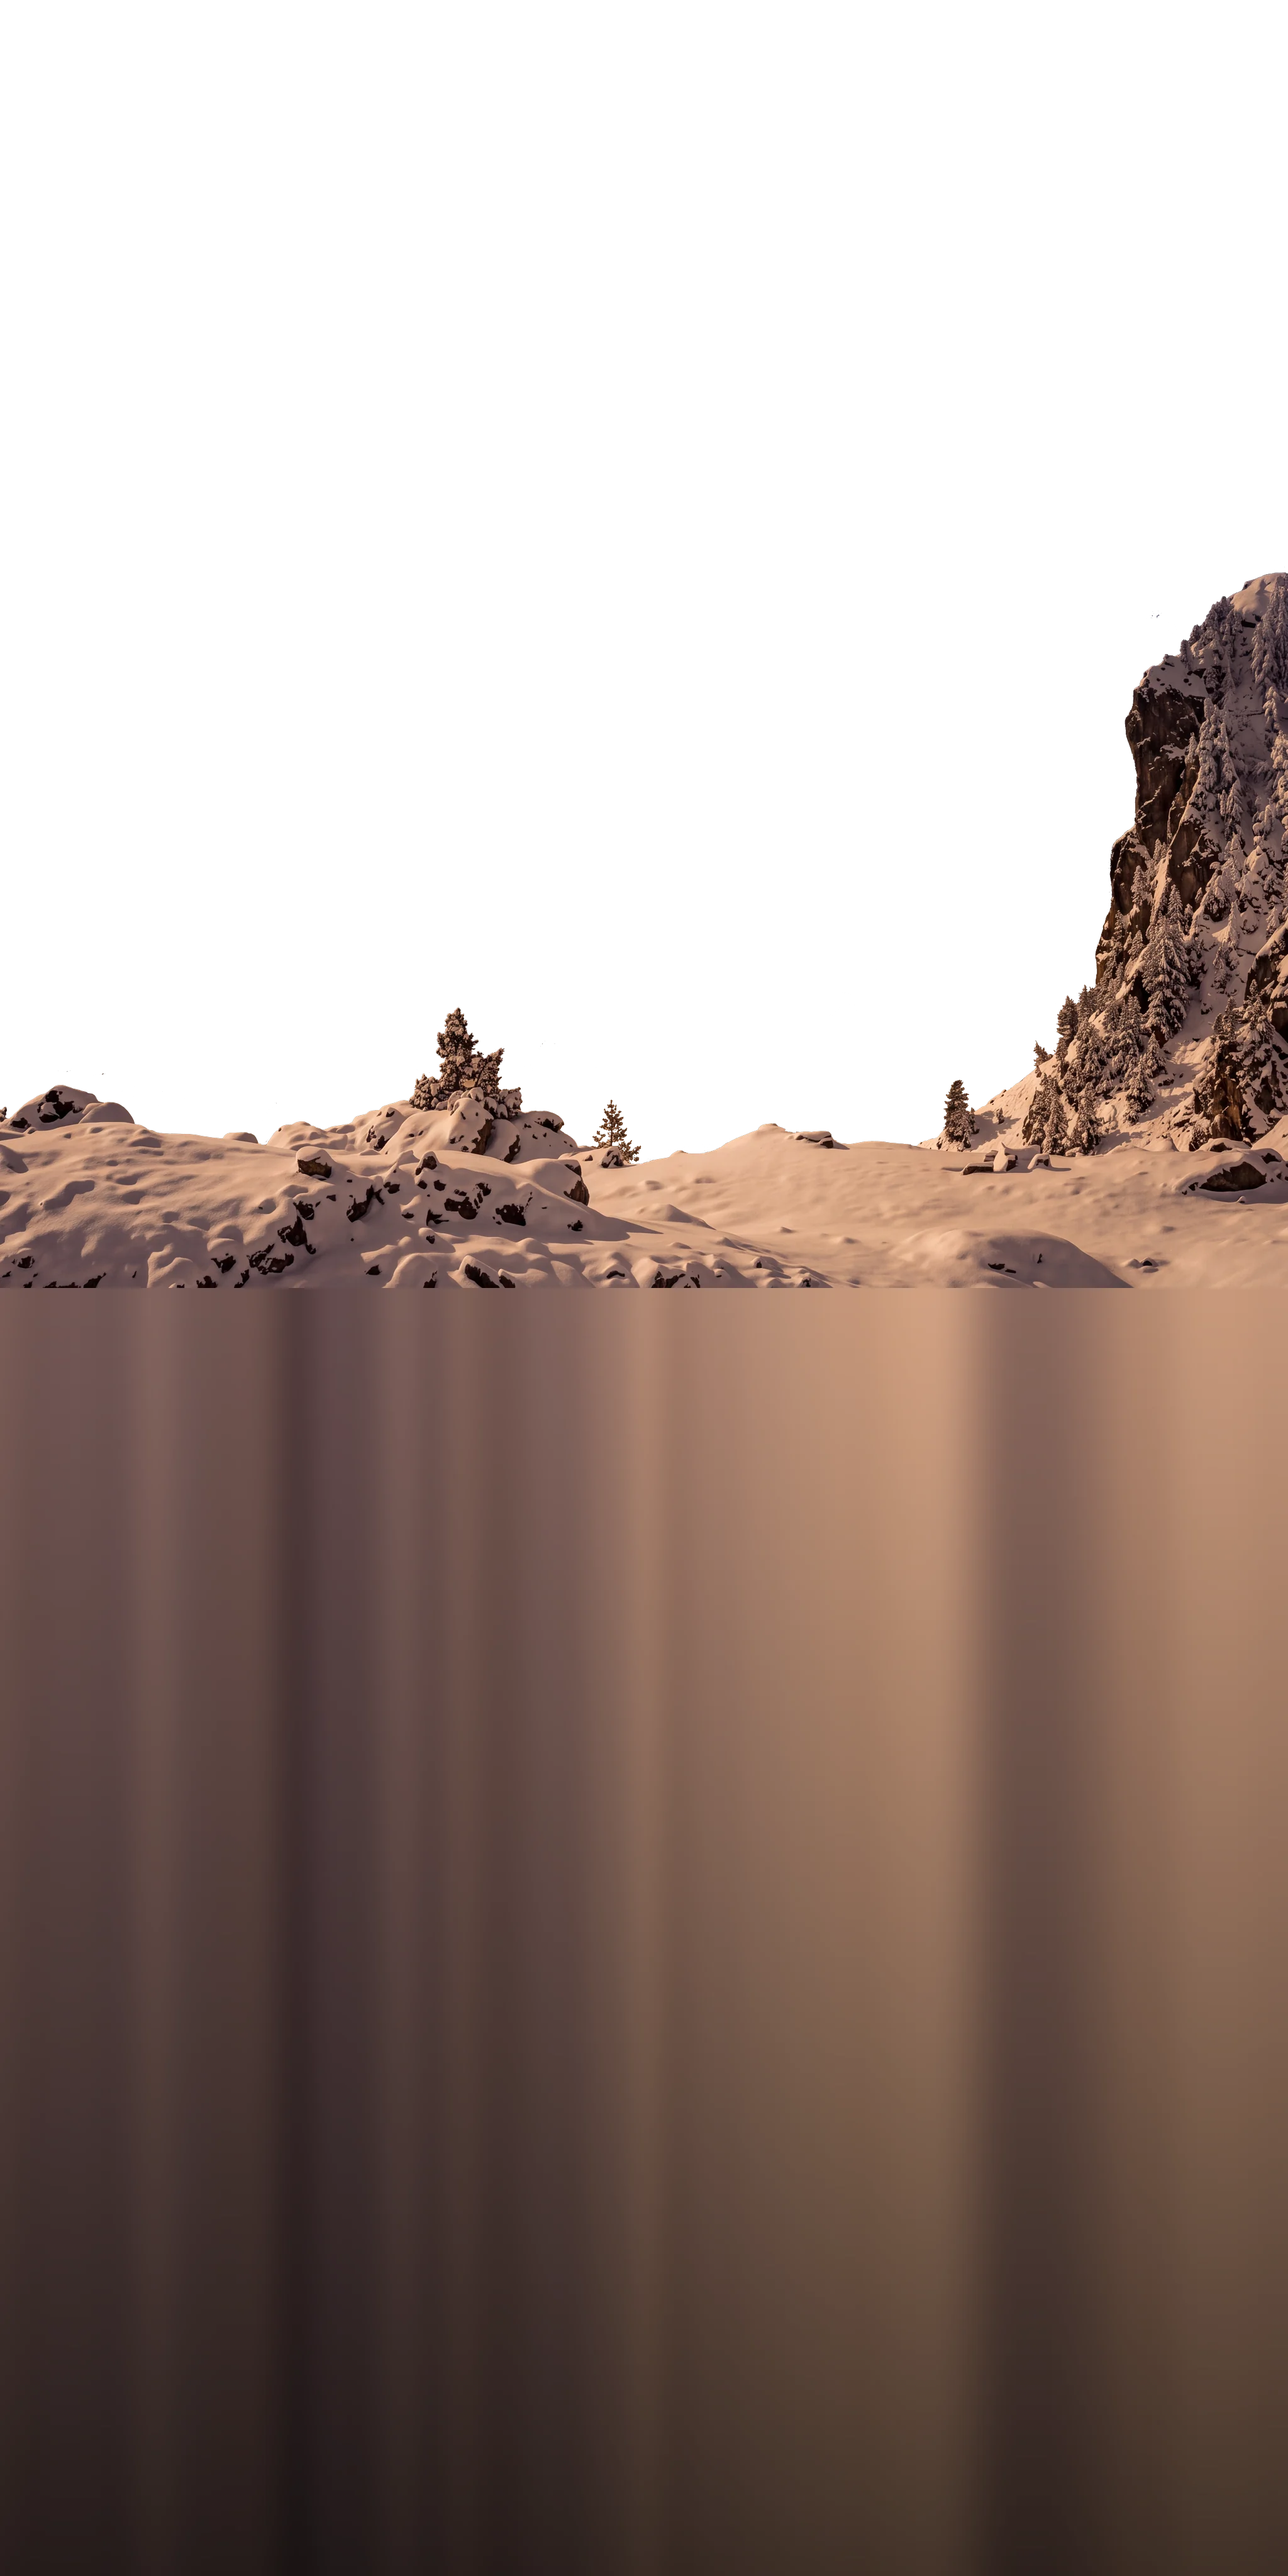
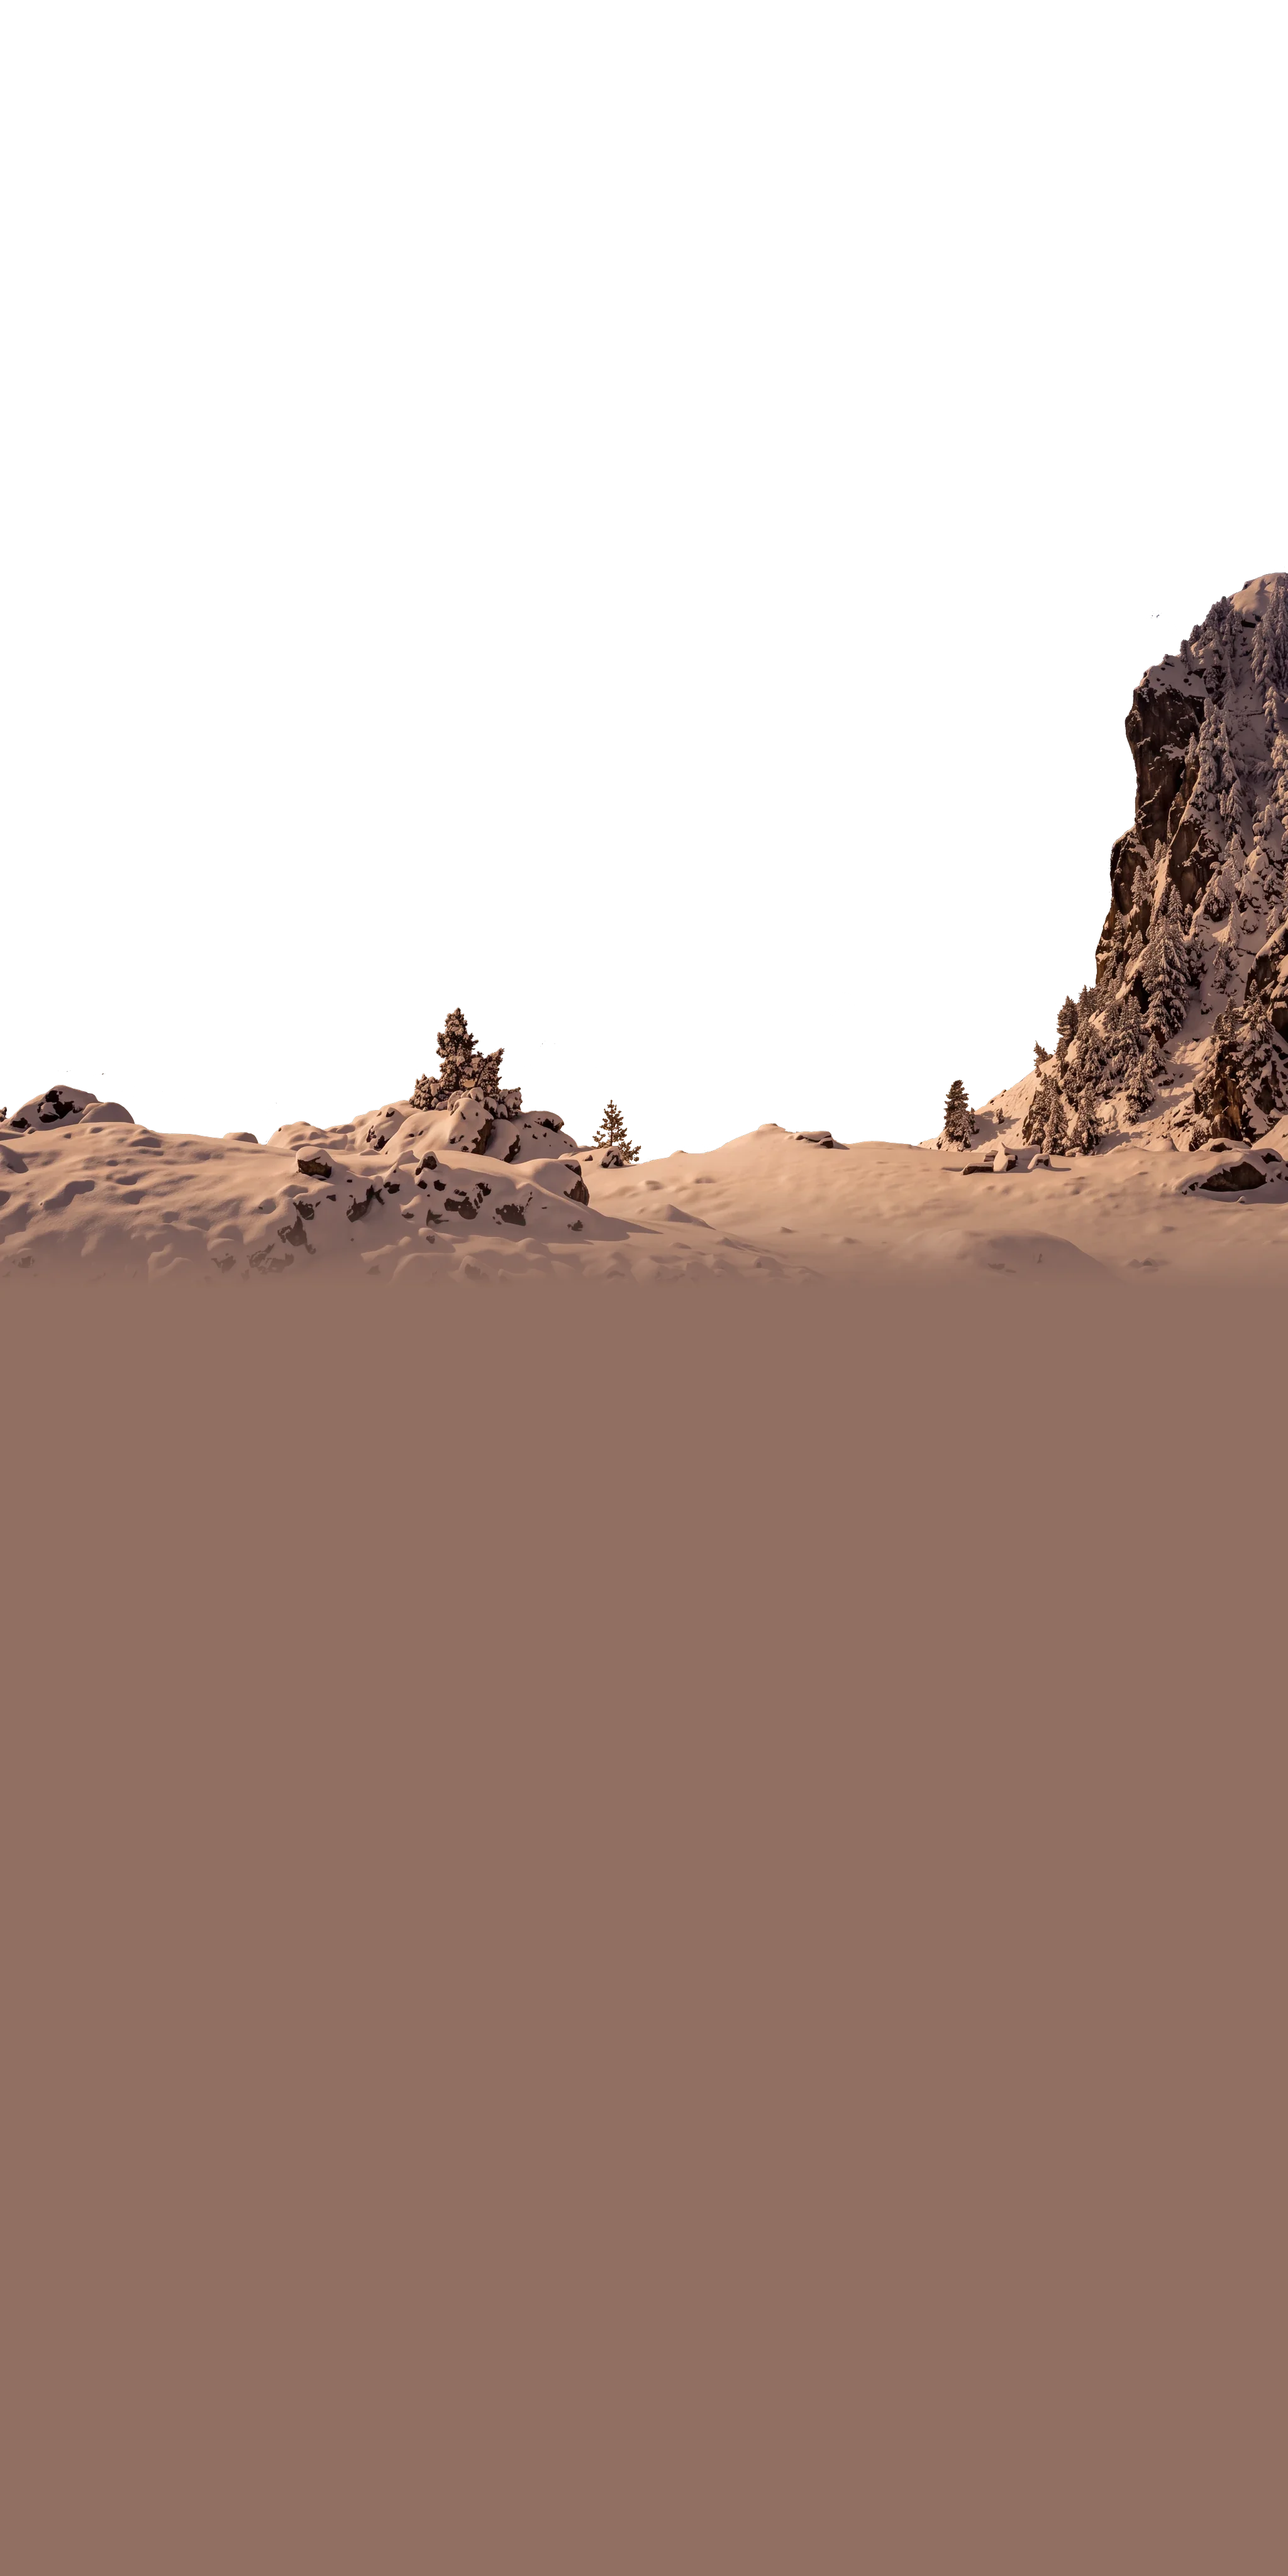
fix: replace streaked hero foreground extension with a smooth fade

diff --git a/tools/hero_layers.py b/tools/hero_layers.py
@@ -15,7 +15,7 @@ Sorties : format paysage (desktop) et recadrage portrait (mobile).
 """
 from pathlib import Path
 
-from PIL import Image, ImageDraw, ImageFilter
+from PIL import Image, ImageChops, ImageDraw, ImageFilter
 
 SRC = Path.home() / "Downloads" / "Generated Image September 09, 2026 - 2_02PM.jpg"
 OUT = Path(__file__).resolve().parent.parent / "src" / "site" / "assets" / "img"
@@ -99,35 +99,22 @@ EXT = 2.0   # le plan avant est prolonge vers le bas pour ne jamais laisser de v
 
 
 def extend_front(front):
-    """Prolonge la neige sous la photo par miroirs successifs, puis floute.
+    """Prolonge la neige sous la photo par un aplat de sa couleur moyenne.
 
-    Un premier plan aussi proche serait hors profondeur de champ : le flou est
-    photographiquement juste et masque entierement la repetition."""
+    Le bas de la photo se fond dans l'aplat : aucune trainee ni bande floue."""
     w, h = front.size
     tail = round(h * (EXT - 1))
-    block = front.crop((0, round(h * 0.55), w, h)).convert("RGB")
-    bh = block.height
-
-    ext = Image.new("RGB", (w, tail))
-    y, flip = 0, True
-    while y < tail:
-        tile = block.transpose(Image.FLIP_TOP_BOTTOM) if flip else block
-        ext.paste(tile, (0, y))
-        y += bh
-        flip = not flip
-
-    ext = ext.filter(ImageFilter.GaussianBlur(w / 52.0))
-
-    # la neige s'enfonce doucement dans l'ombre en descendant
-    shade = Image.new("L", (1, tail))
-    for i in range(tail):
-        shade.putpixel((0, i), int(255 - 120 * (i / max(1, tail - 1)) ** 1.15))
-    ext = Image.composite(ext, Image.new("RGB", (w, tail), (0, 0, 0)), shade.resize((w, tail)))
+    fade = round(h * 0.08)
+    color = front.crop((0, h - round(h * 0.04), w, h)).convert("RGB").resize((1, 1), Image.BOX).getpixel((0, 0))
 
     out = Image.new("RGBA", (w, h + tail), (0, 0, 0, 0))
-    ext_rgba = ext.convert("RGBA")
-    out.paste(ext_rgba, (0, h))
-    out.paste(front, (0, 0), front)
+    out.paste(color + (255,), (0, h - fade, w, h + tail))
+    ramp = Image.linear_gradient("L").rotate(180).resize((w, fade))  # 255 en haut -> 0 en bas
+    alpha = front.getchannel("A")
+    alpha.paste(ImageChops.multiply(alpha.crop((0, h - fade, w, h)), ramp), (0, h - fade))
+    faded = front.copy()
+    faded.putalpha(alpha)
+    out.alpha_composite(faded)
     return out
 
 
